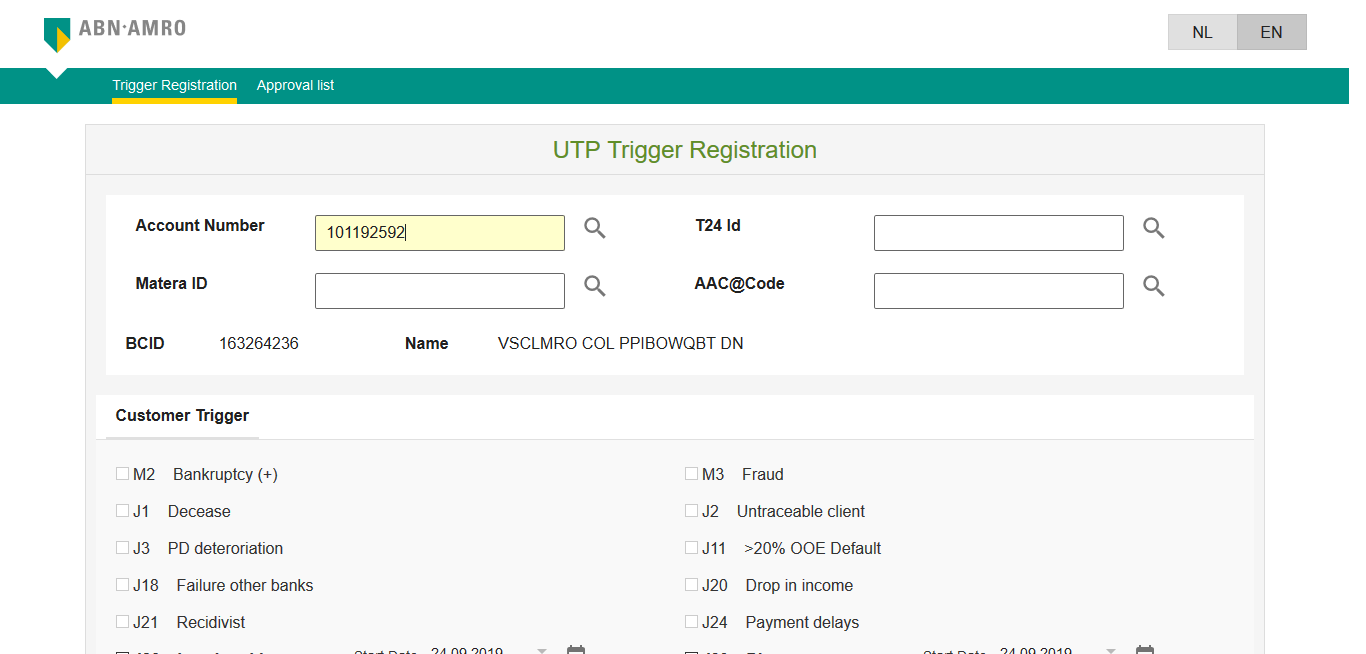
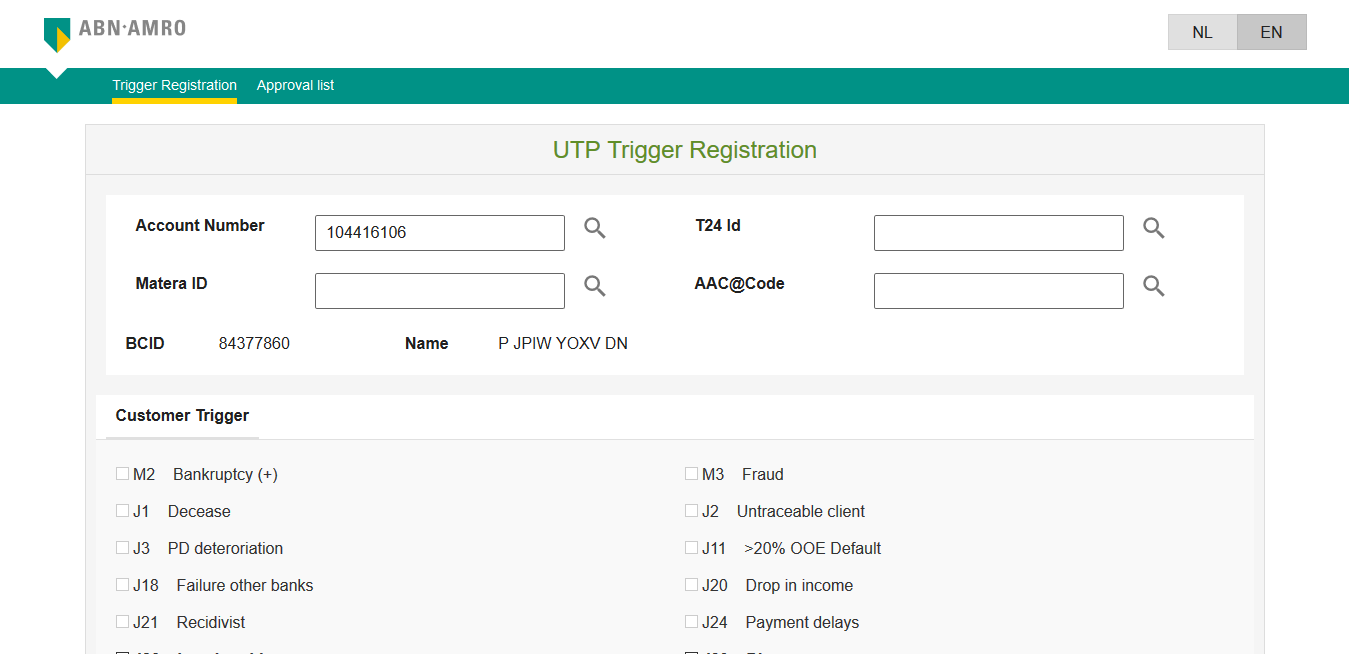
Add files via upload

diff --git a/dod/Reports/DoDTestReport.html b/dod/Reports/DoDTestReport.html
@@ -43,7 +43,7 @@
 		<!-- nav-right -->
 		<ul id='nav-mobile' class='right hide-on-med-and-down nav-right'>
 			<a href='#!'>
-			<span class='label blue darken-3 suite-start-time'>Sep 26, 2019 06:07:49 PM</span>
+			<span class='label blue darken-3 suite-start-time'>Sep 29, 2019 06:59:19 PM</span>
 			</a>
 		</ul>
 	</div>
@@ -59,6 +59,7 @@
 				</a>
 				<ul id='tests-toggle' class='dropdown-content'>
 										<li status='pass'><a href='#!'>Pass <i class='material-icons green-text'>check_circle</i></a></li>
+					<li status='fail'><a href='#!'>Fail <i class='material-icons red-text'>cancel</i></a></li>
 					<li class='divider'></li>
 					<li status='clear' clear='true'><a href='#!'>Clear Filters <i class='material-icons'>clear</i></a></li>
 				</ul>
@@ -101,10 +102,10 @@
 					<canvas id='parent-analysis' width='100' height='80'></canvas>
 				</div>
 				<div class='block text-small'>
-					<span class='tooltipped' data-position='top' data-tooltip='100%'><span class='strong'>2</span> test(s) passed</span>
+					<span class='tooltipped' data-position='top' data-tooltip='80%'><span class='strong'>4</span> test(s) passed</span>
 				</div>
 				<div class='block text-small'>
-					<span class='strong tooltipped' data-position='top' data-tooltip='0%'>0</span> test(s) failed, <span class='strong tooltipped' data-position='top' data-tooltip='0%'>0</span> others
+					<span class='strong tooltipped' data-position='top' data-tooltip='20%'>1</span> test(s) failed, <span class='strong tooltipped' data-position='top' data-tooltip='0%'>0</span> others
 				</div>
 			</div>
 		</div>
@@ -125,14 +126,14 @@
 				<li class='test displayed active  pass' status='pass' bdd='false' test-id='1'>
 					<div class='test-heading'>
 						<span class='test-name'>Verify that CSPL accounts are found in the CRIS database</span>
-						<span class='test-time'>Sep 26, 2019 06:08:30 PM</span>
+						<span class='test-time'>Sep 29, 2019 07:00:02 PM</span>
 						<span class='test-status right pass'>pass</span>
 					</div>
 					<div class='test-content hide'>
 <div class='test-time-info'>
-	<span class='label start-time'>Sep 26, 2019 06:08:30 PM</span>
-	<span class='label end-time'>Sep 26, 2019 06:08:31 PM</span>
-	<span class='label time-taken grey lighten-1 white-text'>0h 0m 1s+581ms</span>
+	<span class='label start-time'>Sep 29, 2019 07:00:02 PM</span>
+	<span class='label end-time'>Sep 29, 2019 07:00:03 PM</span>
+	<span class='label time-taken grey lighten-1 white-text'>0h 0m 1s+490ms</span>
 </div>
 <div class='test-steps'>
 	<table class='bordered table-results'>
@@ -146,7 +147,7 @@
 		<tbody>
 			<tr class='log' status='pass'>
 				<td class='status pass' title='pass' alt='pass'><i class='material-icons'>check_circle</i></td>
-				<td class='timestamp'>6:08:31 PM</td>
+				<td class='timestamp'>7:00:03 PM</td>
 				<td class='step-details'>
 						TEST CASE PASSED IS searchAccountNumber
 					
@@ -162,15 +163,15 @@
 				</li>
 				<li class='test displayed active  pass' status='pass' bdd='false' test-id='2'>
 					<div class='test-heading'>
-						<span class='test-name'>Verify that trigger saving functionality works as expected from the User Interface</span>
-						<span class='test-time'>Sep 26, 2019 06:08:32 PM</span>
+						<span class='test-name'>Verify that Client level Manual triggers are visible in bold</span>
+						<span class='test-time'>Sep 29, 2019 07:00:05 PM</span>
 						<span class='test-status right pass'>pass</span>
 					</div>
 					<div class='test-content hide'>
 <div class='test-time-info'>
-	<span class='label start-time'>Sep 26, 2019 06:08:32 PM</span>
-	<span class='label end-time'>Sep 26, 2019 06:08:38 PM</span>
-	<span class='label time-taken grey lighten-1 white-text'>0h 0m 5s+249ms</span>
+	<span class='label start-time'>Sep 29, 2019 07:00:05 PM</span>
+	<span class='label end-time'>Sep 29, 2019 07:00:05 PM</span>
+	<span class='label time-taken grey lighten-1 white-text'>0h 0m 0s+53ms</span>
 </div>
 <div class='test-steps'>
 	<table class='bordered table-results'>
@@ -184,7 +185,83 @@
 		<tbody>
 			<tr class='log' status='pass'>
 				<td class='status pass' title='pass' alt='pass'><i class='material-icons'>check_circle</i></td>
-				<td class='timestamp'>6:08:38 PM</td>
+				<td class='timestamp'>7:00:05 PM</td>
+				<td class='step-details'>
+						TEST CASE PASSED IS checkClientManualTrigger
+					
+				</td>
+			</tr>
+		</tbody>
+	</table>
+</div>
+						<ul class='screenshots'>
+							<li><img class='r-img' onerror='this.style.display="none"' data-featherlight='C:\Testing_Workspace\dod/ScreenshotscheckClientManualTrigger.png' src='C:\Testing_Workspace\dod/ScreenshotscheckClientManualTrigger.png' data-src='C:\Testing_Workspace\dod/ScreenshotscheckClientManualTrigger.png'></li>
+						</ul>
+					</div>
+				</li>
+				<li class='test displayed active  pass' status='pass' bdd='false' test-id='3'>
+					<div class='test-heading'>
+						<span class='test-name'>Verify that Account level Manual triggers are visible in bold</span>
+						<span class='test-time'>Sep 29, 2019 07:00:06 PM</span>
+						<span class='test-status right pass'>pass</span>
+					</div>
+					<div class='test-content hide'>
+<div class='test-time-info'>
+	<span class='label start-time'>Sep 29, 2019 07:00:06 PM</span>
+	<span class='label end-time'>Sep 29, 2019 07:00:07 PM</span>
+	<span class='label time-taken grey lighten-1 white-text'>0h 0m 0s+862ms</span>
+</div>
+<div class='test-steps'>
+	<table class='bordered table-results'>
+		<thead>
+			<tr>
+				<th>Status</th>
+				<th>Timestamp</th>
+				<th>Details</th>
+			</tr>
+		</thead>
+		<tbody>
+			<tr class='log' status='pass'>
+				<td class='status pass' title='pass' alt='pass'><i class='material-icons'>check_circle</i></td>
+				<td class='timestamp'>7:00:07 PM</td>
+				<td class='step-details'>
+						TEST CASE PASSED IS checkAccountManualTrigger
+					
+				</td>
+			</tr>
+		</tbody>
+	</table>
+</div>
+						<ul class='screenshots'>
+							<li><img class='r-img' onerror='this.style.display="none"' data-featherlight='C:\Testing_Workspace\dod/ScreenshotscheckAccountManualTrigger.png' src='C:\Testing_Workspace\dod/ScreenshotscheckAccountManualTrigger.png' data-src='C:\Testing_Workspace\dod/ScreenshotscheckAccountManualTrigger.png'></li>
+						</ul>
+					</div>
+				</li>
+				<li class='test displayed active  pass' status='pass' bdd='false' test-id='4'>
+					<div class='test-heading'>
+						<span class='test-name'>Verify that trigger saving functionality works as expected from the User Interface</span>
+						<span class='test-time'>Sep 29, 2019 07:00:09 PM</span>
+						<span class='test-status right pass'>pass</span>
+					</div>
+					<div class='test-content hide'>
+<div class='test-time-info'>
+	<span class='label start-time'>Sep 29, 2019 07:00:09 PM</span>
+	<span class='label end-time'>Sep 29, 2019 07:00:11 PM</span>
+	<span class='label time-taken grey lighten-1 white-text'>0h 0m 1s+852ms</span>
+</div>
+<div class='test-steps'>
+	<table class='bordered table-results'>
+		<thead>
+			<tr>
+				<th>Status</th>
+				<th>Timestamp</th>
+				<th>Details</th>
+			</tr>
+		</thead>
+		<tbody>
+			<tr class='log' status='pass'>
+				<td class='status pass' title='pass' alt='pass'><i class='material-icons'>check_circle</i></td>
+				<td class='timestamp'>7:00:11 PM</td>
 				<td class='step-details'>
 						TEST CASE PASSED IS saveTriggerFunctionality
 					
@@ -195,6 +272,52 @@
 </div>
 						<ul class='screenshots'>
 							<li><img class='r-img' onerror='this.style.display="none"' data-featherlight='C:\Testing_Workspace\dod/ScreenshotssaveTriggerFunctionality.png' src='C:\Testing_Workspace\dod/ScreenshotssaveTriggerFunctionality.png' data-src='C:\Testing_Workspace\dod/ScreenshotssaveTriggerFunctionality.png'></li>
+						</ul>
+					</div>
+				</li>
+				<li class='test displayed active  fail' status='fail' bdd='false' test-id='5'>
+					<div class='test-heading'>
+						<span class='test-name'>Verify that trigger saved earlier is retrieved properly</span>
+						<span class='test-time'>Sep 29, 2019 07:00:12 PM</span>
+						<span class='test-status right fail'>fail</span>
+					</div>
+					<div class='test-content hide'>
+<div class='test-time-info'>
+	<span class='label start-time'>Sep 29, 2019 07:00:12 PM</span>
+	<span class='label end-time'>Sep 29, 2019 07:00:13 PM</span>
+	<span class='label time-taken grey lighten-1 white-text'>0h 0m 0s+456ms</span>
+</div>
+<div class='test-steps'>
+	<table class='bordered table-results'>
+		<thead>
+			<tr>
+				<th>Status</th>
+				<th>Timestamp</th>
+				<th>Details</th>
+			</tr>
+		</thead>
+		<tbody>
+			<tr class='log' status='fail'>
+				<td class='status fail' title='fail' alt='fail'><i class='material-icons'>cancel</i></td>
+				<td class='timestamp'>7:00:13 PM</td>
+				<td class='step-details'>
+						TEST CASE FAILED IS retrieveTriggerFunctionality
+					
+				</td>
+			</tr>
+			<tr class='log' status='fail'>
+				<td class='status fail' title='fail' alt='fail'><i class='material-icons'>cancel</i></td>
+				<td class='timestamp'>7:00:13 PM</td>
+				<td class='step-details'>
+						TEST CASE FAILED IS java.lang.AssertionError: expected [true] but found [true]
+					
+				</td>
+			</tr>
+		</tbody>
+	</table>
+</div>
+						<ul class='screenshots'>
+							<li><img class='r-img' onerror='this.style.display="none"' data-featherlight='C:\Testing_Workspace\dod/ScreenshotsretrieveTriggerFunctionality.png' src='C:\Testing_Workspace\dod/ScreenshotsretrieveTriggerFunctionality.png' data-src='C:\Testing_Workspace\dod/ScreenshotsretrieveTriggerFunctionality.png'></li>
 						</ul>
 					</div>
 				</li>
@@ -227,7 +350,7 @@
 			<div class='col s2'>
 				<div class='card-panel r'>
 					Tests
-					<div class='panel-lead'>2</div>
+					<div class='panel-lead'>5</div>
 				</div>
 			</div>
 			<div class='col s2'>
@@ -239,13 +362,13 @@
 			<div class='col s2'>
 				<div class='card-panel r'>
 					Start
-					<div class='panel-lead'>Sep 26, 2019 06:07:49 PM</div>
+					<div class='panel-lead'>Sep 29, 2019 06:59:19 PM</div>
 				</div>
 			</div>
 			<div class='col s2'>
 				<div class='card-panel r'>
 			 		End
-			 		<div class='panel-lead'>Sep 26, 2019 06:07:49 PM</div>
+			 		<div class='panel-lead'>Sep 29, 2019 06:59:19 PM</div>
 				</div>
 			</div>
 			<div class='col s2'>
@@ -282,13 +405,13 @@
 		<!-- container -->
 		<script>
 			var statusGroup = {
-				passParent: 2,
-				failParent: 0,
+				passParent: 4,
+				failParent: 1,
 				fatalParent: 0,
 				errorParent: 0,
 				warningParent: 0,
 				skipParent: 0,
-				exceptionsParent: 0,
+				exceptionsParent: 1,
 				
 				passChild: 0,
 				failChild: 0,
@@ -313,7 +436,7 @@
 		</script>
 		<script>
 			var timeline = {
-			        "Verify that CSPL accounts are found in the CRIS database":1.581,"Verify that trigger saving functionality works as expected from the User Interface":5.249
+			        "Verify that CSPL accounts are found in the CRIS database":1.49,"Verify that Client level Manual triggers are visible in bold":0.053,"Verify that Account level Manual triggers are visible in bold":0.862,"Verify that trigger saving functionality works as expected from the User Interface":1.852,"Verify that trigger saved earlier is retrieved properly":0.456
 			};
 		</script>
 		<script src='https://cdn.rawgit.com/extent-framework/extent-github-cdn/master/v3html/js/extent.js' type='text/javascript'></script>

diff --git a/dod/src/test/java/com/consumercredits/dod/csplAccountTest.java b/dod/src/test/java/com/consumercredits/dod/csplAccountTest.java
@@ -15,13 +15,11 @@ import org.testng.annotations.Test;
 
 public class csplAccountTest extends commonSteps {
 
-    String accountNumber = testData.testAccountNumbers("CSPL");
+    private String accountNumber = testData.testAccountNumbers("CSPL");
 
     @Test
     public void searchAccountNumber() {
         test = extent.createTest("Verify that CSPL accounts are found in the CRIS database");
-        AccountSearchPage.language_button_en(driver).click();
-        wait.until(ExpectedConditions.textToBePresentInElement(AccountSearchPage.text_name(driver), "Name"));
         AccountSearchPage.account_id_search(driver).sendKeys(accountNumber);
         AccountSearchPage.account_id_search(driver).sendKeys(Keys.ENTER);
         wait.until(ExpectedConditions.or(
@@ -55,15 +53,23 @@ public class csplAccountTest extends commonSteps {
     }
 
     @Test(priority = 3)
-    public void saveTriggerFunctionality() throws Exception{
+    public void saveTriggerFunctionality() {
         test = extent.createTest("Verify that trigger saving functionality works as expected from the User Interface");
         TriggerViewSearchPage.trigger_search(driver,"Legal problems").click();
-
-        WebElement element = driver.findElement(By.xpath(".//*[contains(text(),'Legal problems')]"));
-        element.click();
-
         TriggerViewSearchPage.save_button(driver).click();
+        wait.until(ExpectedConditions.visibilityOfElementLocated(By.xpath(".//span[contains(text(),'Saved')]")));
+        Assert.assertEquals("Saved Successfully.", TriggerViewSearchPage.saved_successfully(driver).getText());
     }
 
-
+//    @Test(priority = 4)
+//    public void retrieveTriggerFunctionality() {
+//        test = extent.createTest("Verify that trigger saved earlier is retrieved properly");
+//        AccountSearchPage.account_id_search(driver).clear();
+//        AccountSearchPage.account_id_search(driver).sendKeys(testData.testAccountNumbers("CSPL"));
+//        wait.until(ExpectedConditions.or(
+//                ExpectedConditions.visibilityOfElementLocated(By.xpath(".//span[@class = 'ng-binding ng-scope' and contains(text(),'Legal problems')]")),
+//                ExpectedConditions.visibilityOfElementLocated(By.xpath(".//span[@class = 'ng-binding ng-scope' and contains(text(),'Veroordeling+')]"))
+//        ));
+//
+//    }
 }

diff --git a/dod/src/test/java/com/consumercredits/commonsteps/commonSteps.java b/dod/src/test/java/com/consumercredits/commonsteps/commonSteps.java
@@ -6,6 +6,7 @@ import com.aventstack.extentreports.Status;
 import com.aventstack.extentreports.reporter.ExtentHtmlReporter;
 import com.aventstack.extentreports.reporter.configuration.Theme;
 import com.consumercredits.dod.SearchPageLangBOReachTest;
+import com.consumercredits.pagesdod.AccountSearchPage;
 import org.apache.commons.io.FileUtils;
 import org.openqa.selenium.*;
 import org.openqa.selenium.firefox.FirefoxDriver;
@@ -103,7 +104,8 @@ public class commonSteps {
     public void beforeMethod() {
         driver.get(baseUrl);
         wait.until(ExpectedConditions.visibilityOfElementLocated(By.id("accountNumber")));
-
+        AccountSearchPage.language_button_en(driver).click();
+        wait.until(ExpectedConditions.textToBePresentInElement(AccountSearchPage.text_name(driver), "Name"));
     }
 
     @AfterMethod

diff --git a/dod/src/test/java/com/consumercredits/test_data/testData.java b/dod/src/test/java/com/consumercredits/test_data/testData.java
@@ -3,7 +3,7 @@ package com.consumercredits.test_data;
 public class testData {
     public static String testAccountNumbers(String account_group) {
 
-        String acc_cspl = "101192592";
+        String acc_cspl = "104416106";
         String acc_crpl = "107362252";
         String acc_ccpl = "490969917";
         String acc_crcpl = "213319101";

diff --git a/dod/src/test/java/com/consumercredits/pagesdod/TriggerViewSearchPage.java b/dod/src/test/java/com/consumercredits/pagesdod/TriggerViewSearchPage.java
@@ -24,4 +24,9 @@ public class TriggerViewSearchPage {
         element = driver.findElement(By.xpath(related_acc_xpath));
         return element;
     }
+
+    public static WebElement saved_successfully(WebDriver driver) {
+        element = driver.findElement(By.xpath(".//span[contains(text(),'Saved')]"));
+        return element;
+    }
 }
